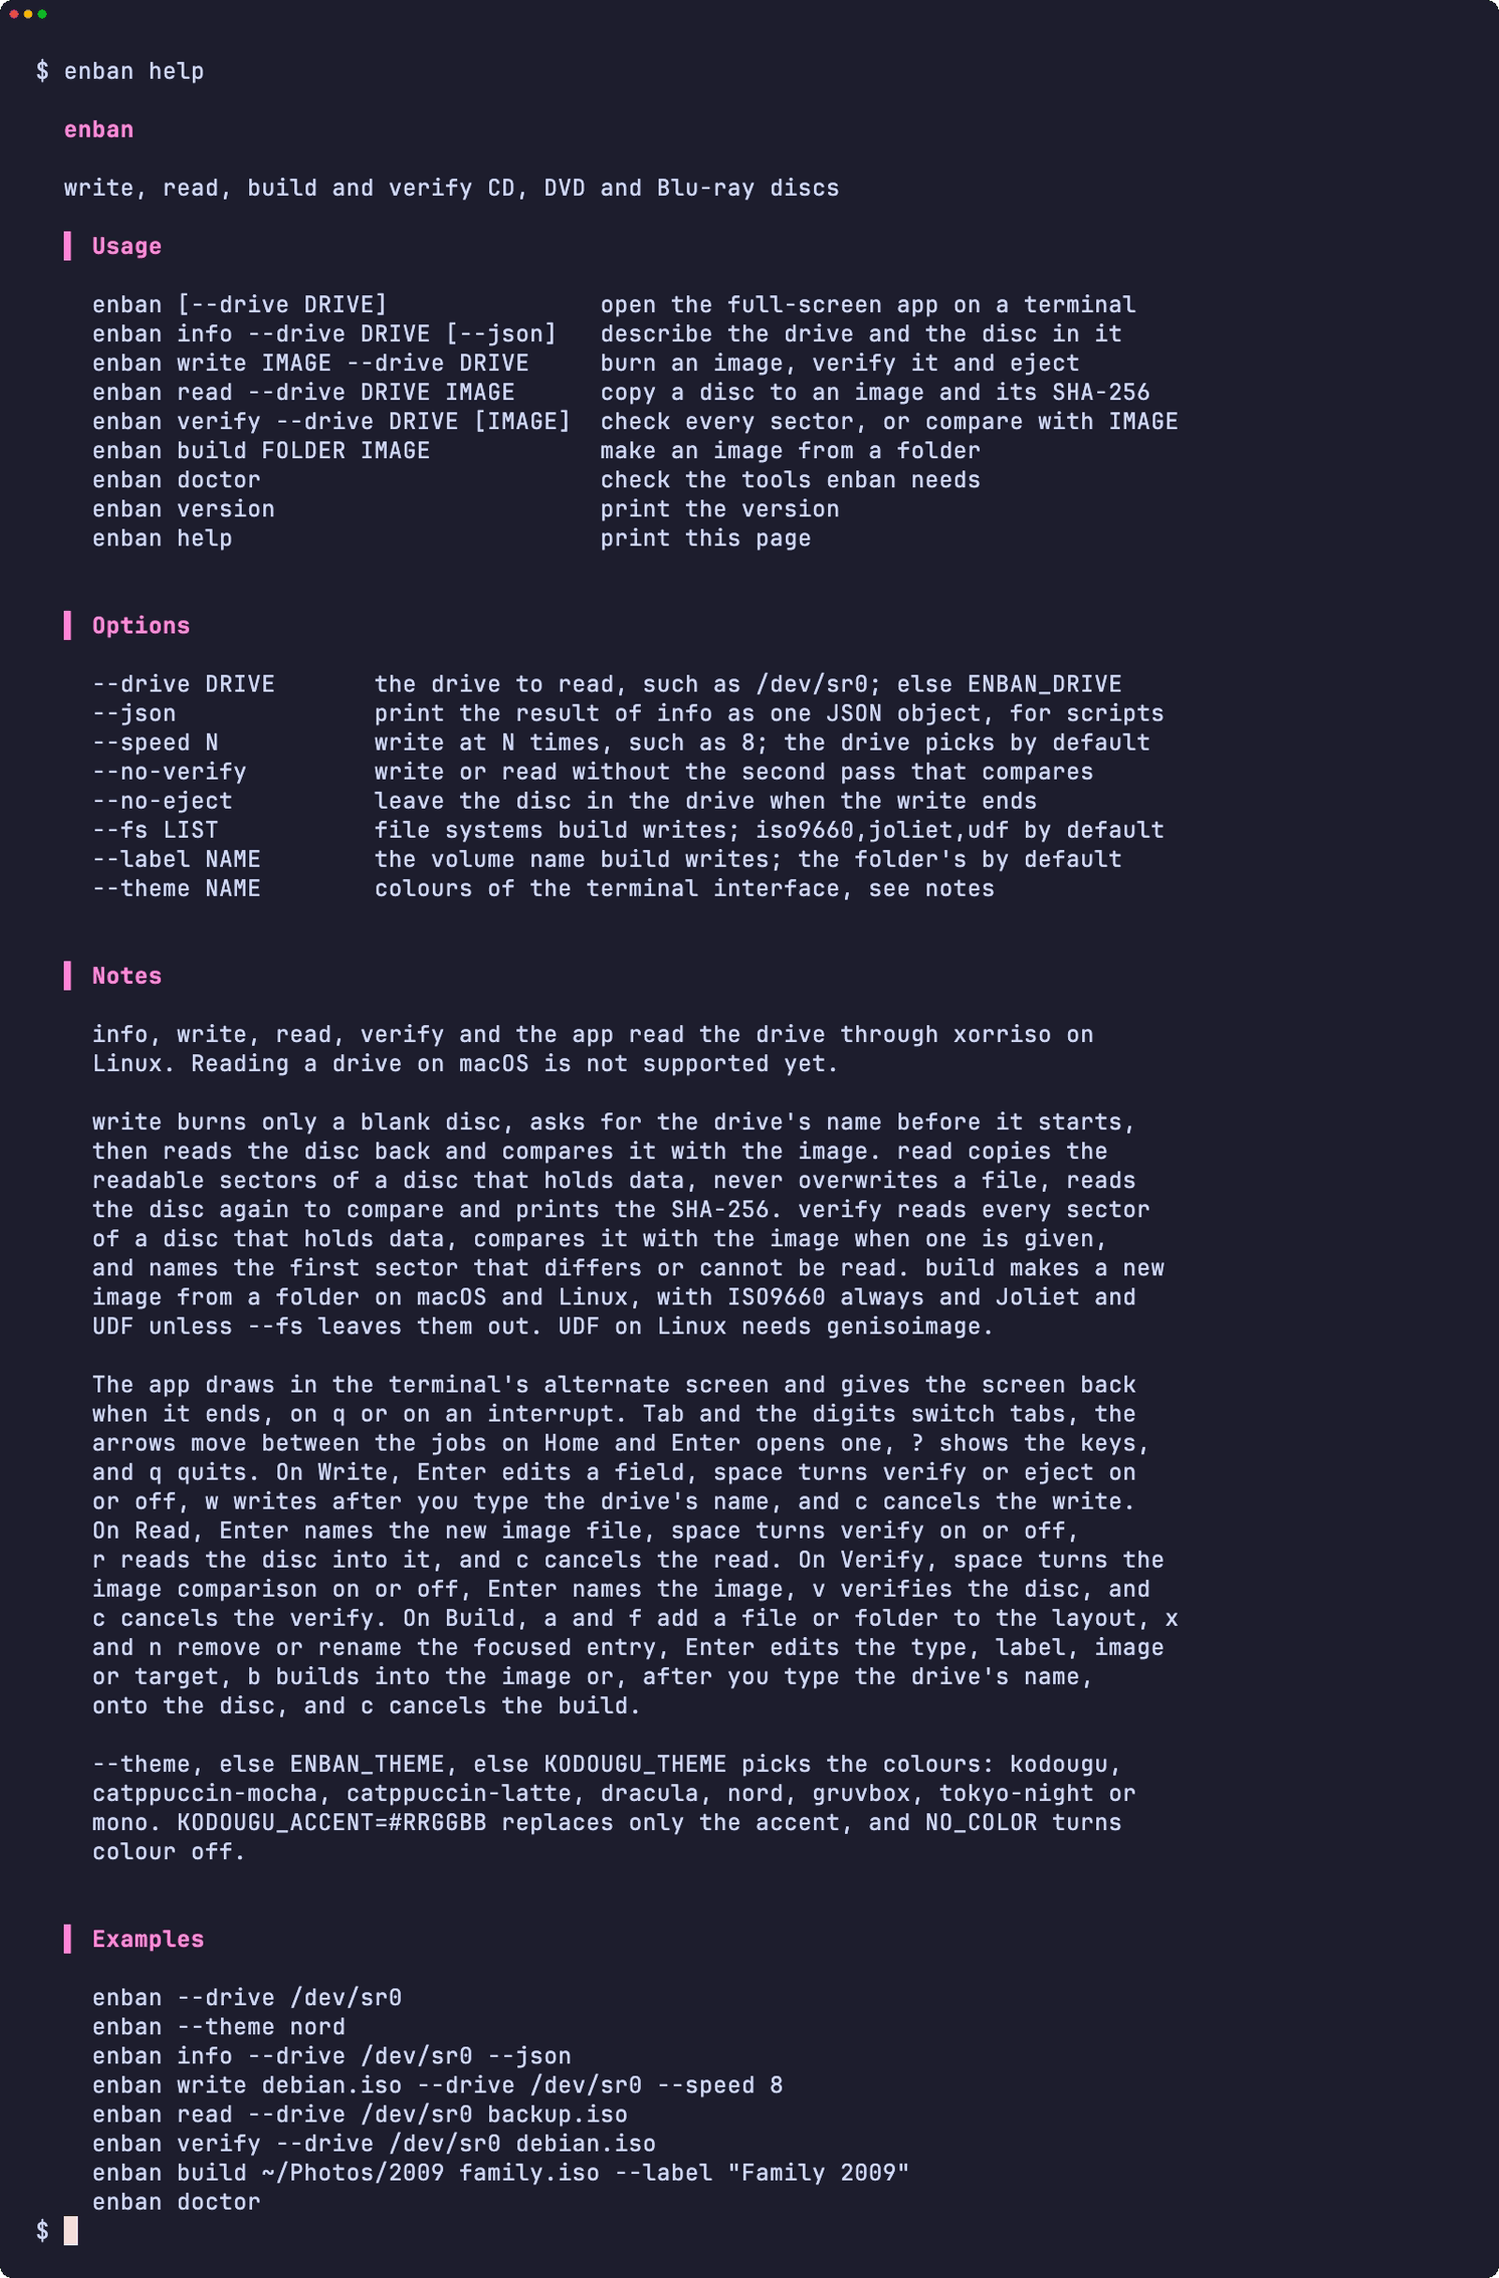
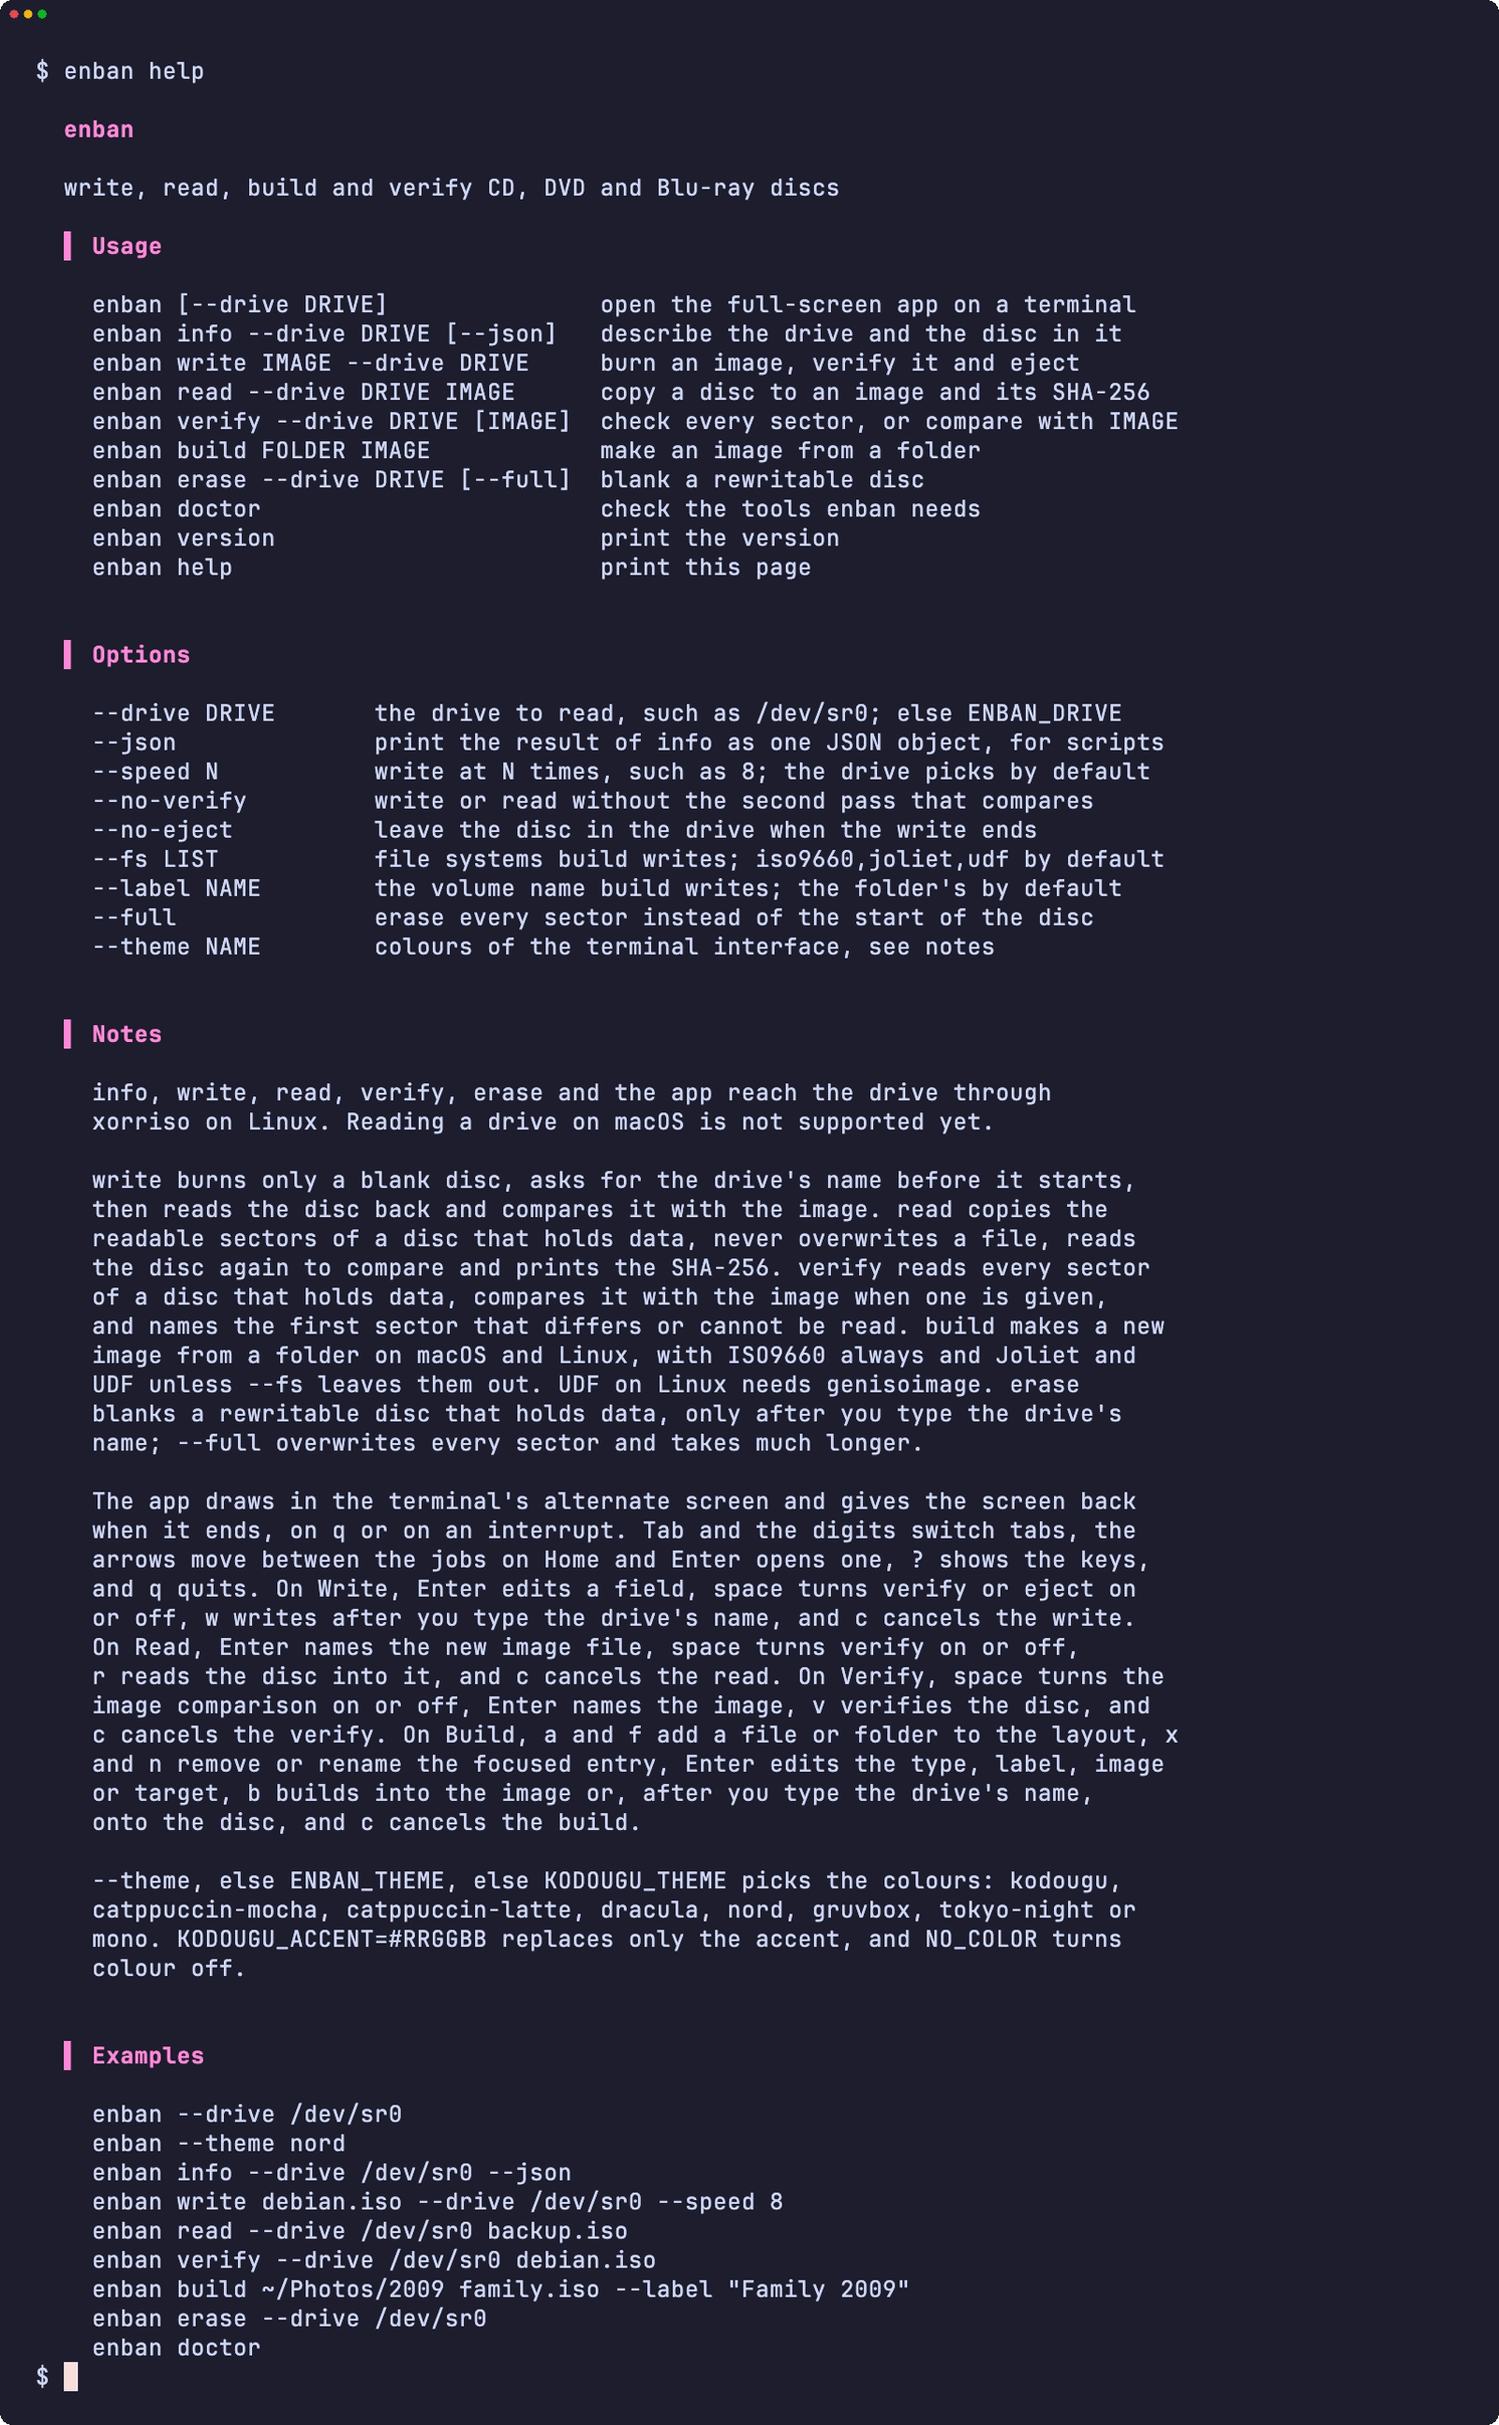
feat: erase a rewritable disc with erase
enban erase --drive DRIVE blanks a CD-RW, DVD-RAM, DVD-RW, DVD+RW or
BD-RE that holds data, after the drive's name is typed; any other
answer prints "cancelled, nothing was touched." and leaves the disc
alone. --full asks the drive to blank every sector instead of only the
start. A disc that cannot be erased or is already blank is refused.

Changed region(s): [[0.0312, 0.0309, 0.7812, 0.9872], [0.25, 0.2777, 0.7812, 0.4011]]

diff --git a/AGENTS.md b/AGENTS.md
@@ -31,6 +31,8 @@ Guidance for anyone, human or agent, changing enban. What enban is and how to us
 - `enban read` copies the readable sectors that `xorriso -toc` reports, refuses a disc with no data and an existing file, reads again to compare unless told not to, and prints the SHA-256 with `sha256sum`, which doctor checks on Linux.
 - `enban verify` reads the sectors `xorriso -toc` reports, or exactly the image's sectors when an image is given, streams them through `cmp -l` without a temporary copy, and counts the sectors read from the `records in` line of `dd`; it names the first sector that differs, then the first that could not be read.
 - `enban build` writes ISO9660 always, through `hdiutil makehybrid` on macOS, which appends `.iso` to an output name without it, and through xorriso on Linux, or genisoimage when UDF is asked for, since libisofs has no UDF. It builds into a hidden temporary file beside the output and renames it, so a failed build leaves nothing. The ISO9660 volume name is uppercase `A-Z0-9_`, derived by enban so both platforms agree.
+- `enban erase` accepts only the rewritable profiles CD-RW, DVD-RAM, DVD-RW in both modes, DVD+RW, DVD+RW DL and BD-RE, refuses a blank disc, and runs `xorriso -blank fast` or `-blank all` only after the drive's name is typed; a wrong name prints `cancelled, nothing was touched.` A `stdio:` image blanks the same 64 KiB in both modes, so tests read the mode from the stand-in drive's log.
+- Closing an appendable disc is not possible through libburnia: xorriso and cdrskin both ignore `-fix`, so Close waits for the raw SCSI tools.
 - The Build tab keeps its layout as rows of disc name, source path, KiB, files and folders, and caches its right pane when the layout or the type changes, because the name checks walk every source. A layout builds through graft points on Linux and through a staging folder of APFS clones on macOS, falling back to a plain copy across volumes. With Target on the disc, the layout builds into the job's own folder and then runs the write steps, so a cancel removes the temporary image with that folder.
 - The Write, Read, Verify and Build tabs run the same steps as their commands in a background subshell, which writes its log and exit status to a temporary folder. While a job runs, the app reads keys with a half-second timeout so it can redraw and notice the end of the job, refuses to quit, refuses to start a second job, and cancels on `c` by killing the job's whole process tree, since a reader inside a pipeline is a grandchild of the job. A field is edited by handing the screen to one gum input, or to a plain line when gum is missing.
 

diff --git a/README.md b/README.md
@@ -75,6 +75,7 @@ make install
 | `enban read --drive /dev/sr0 backup.iso` | Copy the disc into a new image file, read it again to compare, and print the SHA-256. `--no-verify` skips the second read. Linux only for now |
 | `enban verify --drive /dev/sr0 debian.iso` | Read every sector of the disc and compare it with the image, naming the first sector that differs or cannot be read. Leave out the image to only check that every sector reads. Linux only for now |
 | `enban build ~/Photos/2009 family.iso` | Make an image from a folder with ISO9660, Joliet and UDF, named after the folder. `--fs iso9660,joliet` leaves UDF out, and `--label "Family 2009"` names the volume. Works on macOS and Linux |
+| `enban erase --drive /dev/sr0` | Blank a rewritable disc once you type the drive's name. `--full` overwrites every sector instead of only the start. Linux only for now |
 | `enban doctor` | List the tools enban needs and whether they are installed |
 | `enban version`, `enban help` | Print the version or the full usage page |
 
